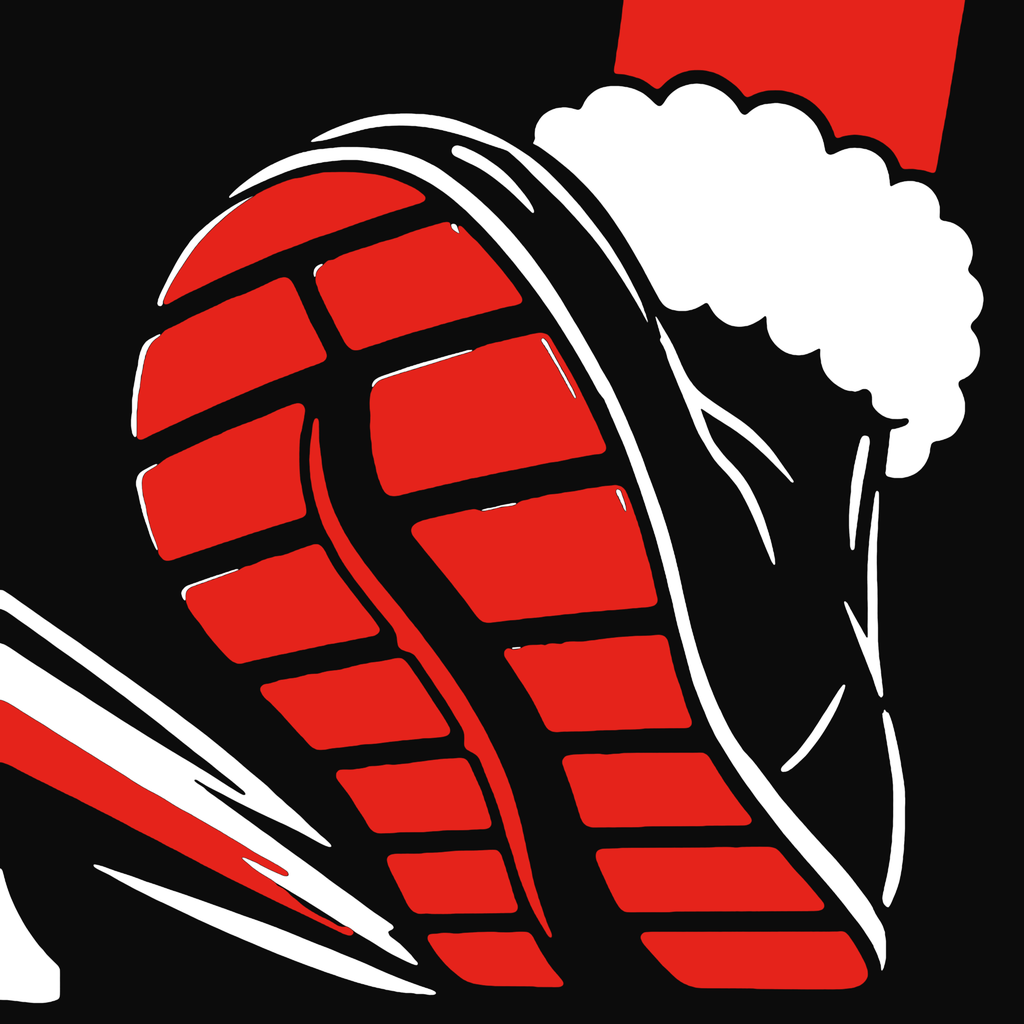
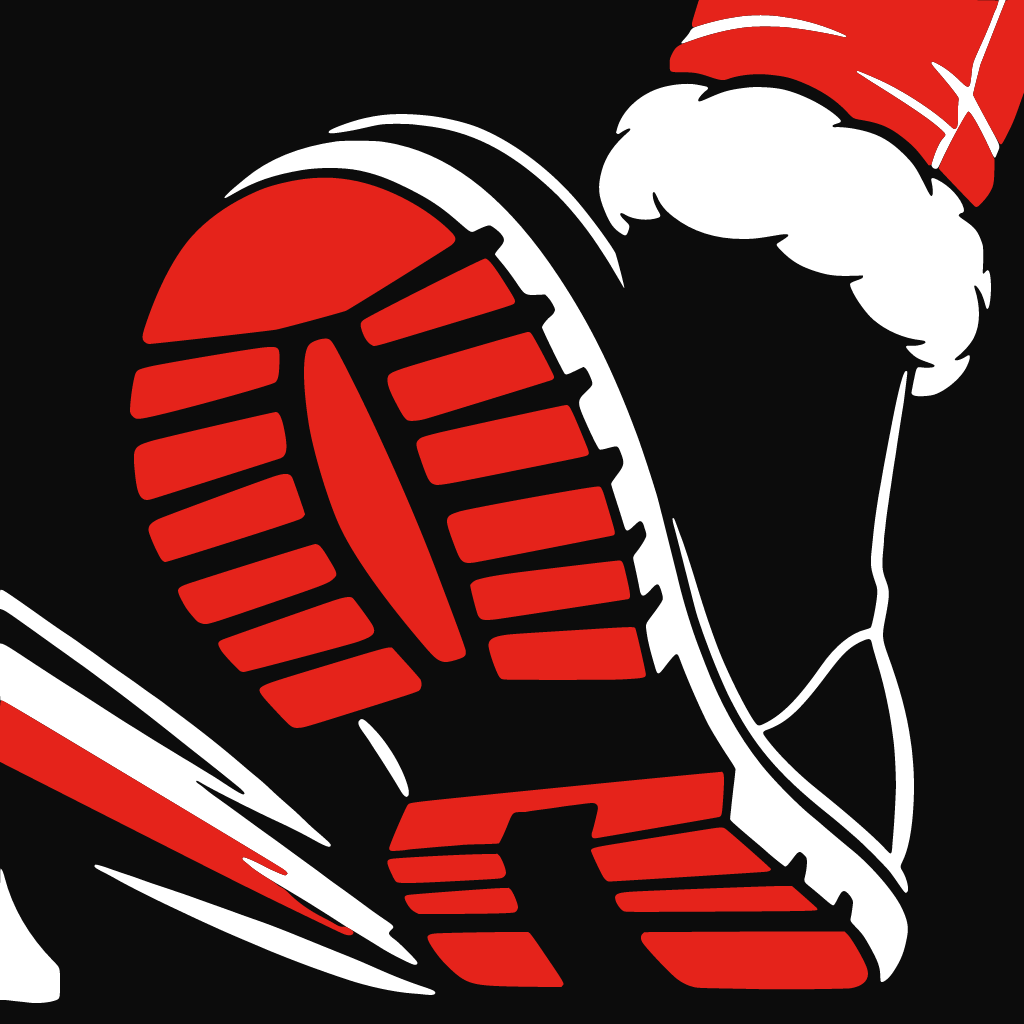
ios: icona di Natale nuova, scelta da William (T-019) (#49)
Stessa composizione dell'icona normale: suola da scarpone con tacco staccato,
stivale nero senza lacci, risvolto di pelliccia e pantalone rosso; la gamba
entra nello stivale sopra il tallone. Nuovi solo i livelli rosso.svg e
bianco.svg, in App/ e in docs/design/T-015-natale/; icon.json invariato.
Verificata con actool e sul Simulatore (avviso, Home chiara e scura).

diff --git a/ios/docs/design/T-015-natale/generazioni.md b/ios/docs/design/T-015-natale/generazioni.md
@@ -61,3 +61,29 @@ Tutto in Python con PIL e numpy:
 - scontorno del magenta con correzione del bordo viola;
 - gamba di notte ricolorata dalla gamba di giorno (§2.3 della specifica);
 - separazione dell'icona in livello rosso e livello bianco a 2048 px.
+
+## T-019 — Icona di Natale rifatta (18/11/2026)
+
+Tetto rimasto 22,5 crediti (D-040). Saldo verificato con `balance`: **22,5 → 13,5**, cioè **9 crediti spesi**, tutti
+`nano_banana_2_1` 1k da 1,5 crediti.
+
+| # | Id del lavoro | Modello | Crediti | Uso | Esito |
+|---|---|---|---|---|---|
+| 11 | c1789475 | nano_banana_2_1 1k | 1,5 | proposta A: stivale grande di profilo | scelta da William, poi scartata: «la gamba pare unirsi a centro piede» |
+| 12 | 836e457c | nano_banana_2_1 1k | 1,5 | proposta B: suola con pelliccia | scartata: troppo confusa |
+| 13 | 457f1a3e | nano_banana_2_1 1k | 1,5 | proposta C: impronta | scartata: troppo confusa |
+| 14 | 49995e98 | nano_banana_2_1 1k | 1,5 | proposta B semplificata | mostrata sulla tela, non scelta |
+| 15 | 2a621b91 | nano_banana_2_1 1k | 1,5 | proposta C semplificata | mostrata sulla tela, non scelta |
+| 16 | 52184700 | nano_banana_2_1 1k | 1,5 | image-to-image dell'icona normale (`normale.png`) | **asset** `AppIconNatale.icon`, dopo pulizia e ritocco a mano |
+
+Fra la #11 e la #16 ci sono due giri disegnati a mano in SVG, senza crediti, entrambi scartati.
+
+**#16** (testo esatto inviato, con l'icona normale come riferimento):
+> Edit this app icon illustration, keeping EXACTLY the same composition, camera angle, sole size, foreshortening, perspective, flat graphic style and the three flat colors only (pure black background, pure white, red #E5231B). Keep the big sole seen from below in the foreground in the same diagonal, keep the white side wall of the shoe on the right with the same layered white contour lines, keep the speed streaks bottom-left identical. Change only: 1) the running-shoe sole becomes a chunky winter boot sole: thick red lug blocks with deep black grooves and a separate, clearly visible raised heel block at the rear end of the sole, separated from the forefoot by a black gap; 2) the upper becomes a smooth leather boot with no laces at all (remove the red laces), black with white outline; 3) the leg enters the boot at the ankle, right above the heel, in perspective: a visible boot shaft rising from the heel up toward the top right, of credible mid-calf length; 4) at the top of the boot shaft a puffy white fur cuff (Santa Claus boot), with a red trouser leg above it going out of frame top right. Anatomically correct: the leg must connect above the heel, never at mid-foot. Bold flat vector look, no gradients, no texture, no text, nothing religious, readable at small icon size.
+
+Lavoro in locale sulla #16 (Python con numpy, Pillow, OpenCV e potracer):
+- portata a 2048 px e ridotta ai 3 colori esatti, con un filtro mediano per togliere i bordi sporchi;
+- tolte a mano le pieghe bianche sottili dentro lo stivale e le tacche sui tasselli (ogni tassello riempito fino al
+  suo contorno convesso, solo dove la rientranza è piccola: il taglio grande del tacco resta);
+- vettorializzata con potrace in `rosso.svg` e `bianco.svg` (viewBox 2048, 1024 × 1024 pt, solo tracciati pieni);
+- anteprime `icona-natale-1024.png` e `icona-natale-tinta-1024.png` ricavate dai due livelli.

diff --git a/ios/tasks/T-019-icona-e-bordo.md b/ios/tasks/T-019-icona-e-bordo.md
@@ -31,6 +31,29 @@ Non unire, nessuna build, nessun tag, nessuna chiave. Non scrivere a William (sa
 
 ## Esito
 
+### 1. Designer (18/11/2026, ramo `design/T-019-icona`)
+- Quattro giri. Il primo: 3 proposte su una tela di Claude Design (A stivale di profilo, B suola con pelliccia,
+  C impronta). William ha scelto la A ma l'ha bocciata così com'era: «la gamba pare unirsi a centro piede». Poi due giri
+  disegnati a mano in SVG, scartati dal Director perché piatti, senza il volume della normale. L'ultimo, scelto da
+  William il 18/11 («questa»), parte dall'icona normale.
+- L'icona: stessa composizione della normale (angolo, dimensione e scorcio della suola, fianco a destra, scie in basso a
+  sinistra). La suola è da scarpone, con il tacco staccato in basso; lo stivale è nero, senza lacci; il risvolto di
+  pelliccia bianca sta al posto della calza, con il pantalone rosso sopra. La gamba entra nello stivale sopra il
+  tallone e il gambale arriva a metà polpaccio. Tomaia nera: è il colore vero degli stivali di Babbo Natale e lascia
+  il rosso solo a suola e pantalone, che così si staccano.
+- Come: image-to-image dell'icona normale con Higgsfield (#16), ridotta a 3 colori esatti. A mano ho tolto le pieghe
+  bianche sottili dentro lo stivale e le tacche sui tasselli, poi l'ho vettorializzata con potrace. Nuovi solo i due
+  livelli `rosso.svg` e `bianco.svg`, sia in `docs/design/T-015-natale/AppIconNatale.icon/` sia in
+  `App/AppIconNatale.icon/`; `icon.json` resta lo schema di `AppIcon.icon`, senza `position`. Anteprime 1024
+  (normale e tinta) rifatte dai livelli.
+- Verifica:
+  - compilata con `actool`, l'icona da 120 px corrisponde all'anteprima; cambiano solo il vetro e il bordo di iOS;
+  - Simulatore (iPhone 18 Pro, build Debug, `-stepteller.season christmas`): l'icona è intera nell'avviso di iOS e
+    sulla Home chiara e scura (`tasks/T-019/icona-natale-verifica.jpg`);
+  - la tinta non si prova sul Simulatore.
+- Higgsfield: 9 crediti in tutto il compito (6 generazioni da 1,5), saldo 22,5 → 13,5. Registro in
+  `docs/design/T-015-natale/generazioni.md`.
+
 ### 2. Developer (18/11/2026, ramo `task/T-019-bordo`)
 - Causa: la tela della Home ha fondo `paper` e l'illustrazione parte da `artTop` = 54 pt (handoff), quindi a Natale
   sopra il cielo restava una striscia di carta (bianca di giorno, blu notte di notte); sugli iPhone più alti del 390 × 844

diff --git a/ios/docs/design/T-015-natale.md b/ios/docs/design/T-015-natale.md
@@ -147,6 +147,11 @@ Le differenze:
 - Stessa composizione e stesso stile piatto dell'icona attuale: la suola rossa vista da sotto e le scie in basso a
   sinistra. La scarpa diventa **lo stivale**: tomaia nera con tratti bianchi, **risvolto di pelliccia bianca** in alto a
   destra e un pezzo di pantalone rosso. Niente lacci, niente cappello, niente neve.
+- **T-019 (18/11, scelta da William):** rifatta perché «la gamba pare unirsi a centro piede». Stessi angolo, dimensione
+  e scorcio della suola, stesso fianco a destra e stesse scie; suola da scarpone con **tacco staccato** in basso, la
+  gamba entra nello stivale **sopra il tallone**, gambale fino a metà polpaccio. Tomaia nera: è il colore vero degli
+  stivali di Babbo Natale e lascia il rosso solo a suola e pantalone, che così si staccano. Dall'icona normale con un
+  image-to-image (#16 in `generazioni.md`), poi 3 colori esatti, ritocco a mano (tolte pieghe e tacche) e potrace.
 - Il formato di Icon Composer è lo stesso di `App/AppIcon.icon`:
   - `icon.json` copiato da lì, con il gruppo «Scarpa» rinominato «Stivale»;
   - due livelli SVG (1024 pt, come l'icona normale; T-018): `rosso.svg` (#E5231B, vetro sì, tinta grigio 1,0) e `bianco.svg` (#FFFFFF, vetro no,

diff --git a/ios/CHANGELOG.md b/ios/CHANGELOG.md
@@ -75,6 +75,10 @@ numeri, Novità per lo store e procedura in `RILASCIO.md`. Prima della 1.0 le se
   bianca tra la barra di stato e il cielo. Dietro la tela la stessa scena, ferma e sfumata, allargata a tutto lo schermo e
   ripetuta a specchio sopra e sotto l'illustrazione (dietro la barra di stato, in basso e ai lati dell'SE); il bordo
   alto dell'illustrazione sfuma nei primi 20 pt. Strada e cursore invariati; fuori stagione nessun cambiamento.
+- Icona di Natale nuova (T-019, scelta da William il 18/11): stessa composizione dell'icona normale (suola vista da
+  sotto, fianco a destra, scie in basso a sinistra), con suola da scarpone e tacco staccato, stivale nero senza lacci,
+  risvolto di pelliccia e pantalone rosso; la gamba entra nello stivale sopra il tallone. Solo i due livelli SVG di
+  `App/AppIconNatale.icon` (e la copia in `docs/design/T-015-natale/`), `icon.json` invariato.
 
 ## 1.1 — pubblicata il 18 novembre 2026, build 1.97.1
 - Copia in iCloud: inizio della streak, storico degli obiettivi, obiettivo, velocità, unità, promemoria (acceso e
